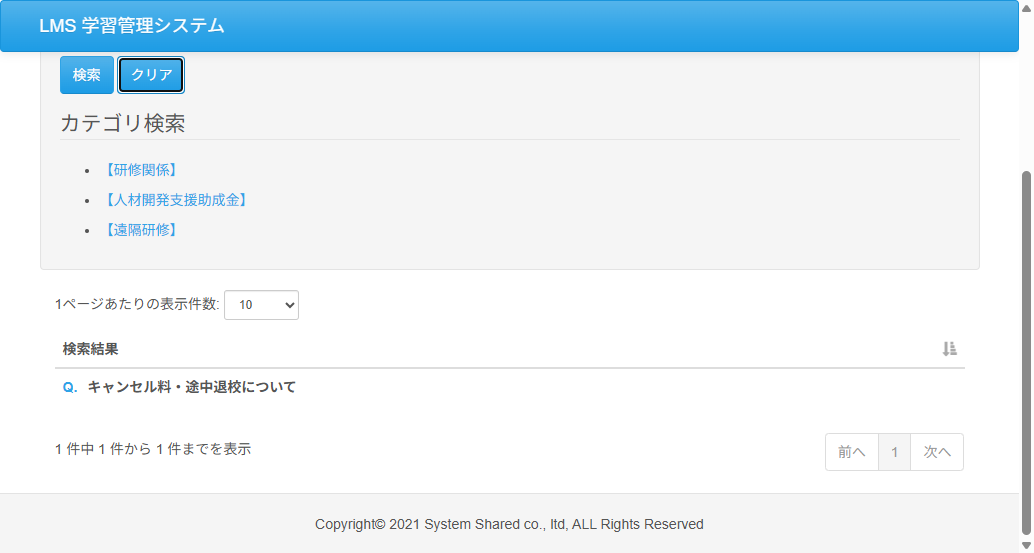
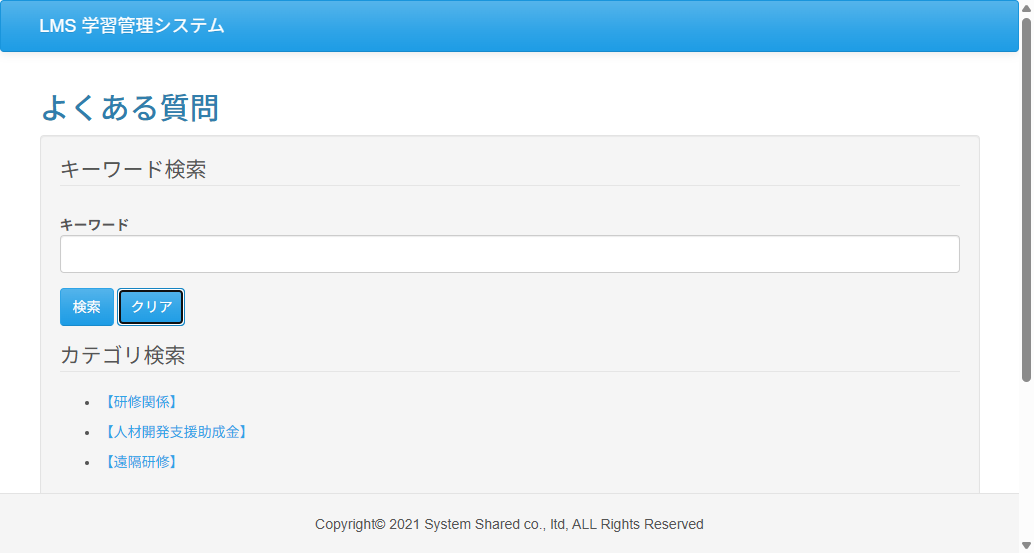
fix//Case05.javaのテストNO.6の修正
・エビデンスの可視性を上げる修正

diff --git a/test_code_creation_hayashidaisuke/src/test/java/jp/co/sss/lms/ct/f02_faq/Case05.java b/test_code_creation_hayashidaisuke/src/test/java/jp/co/sss/lms/ct/f02_faq/Case05.java
@@ -150,6 +150,9 @@ public class Case05 {
 	@DisplayName("テスト06 「クリア」ボタン押下で入力したキーワードを消去")
 	void test06() {
 
+		//検索バーが見えやすい位置にスクロール
+		((JavascriptExecutor) webDriver).executeScript("window.scrollTo(0,0);");
+
 		//「クリア」ボタンを押下
 		WebElement button = webDriver.findElements(By.cssSelector(".btn.btn-primary")).get(1);
 		button.click();
